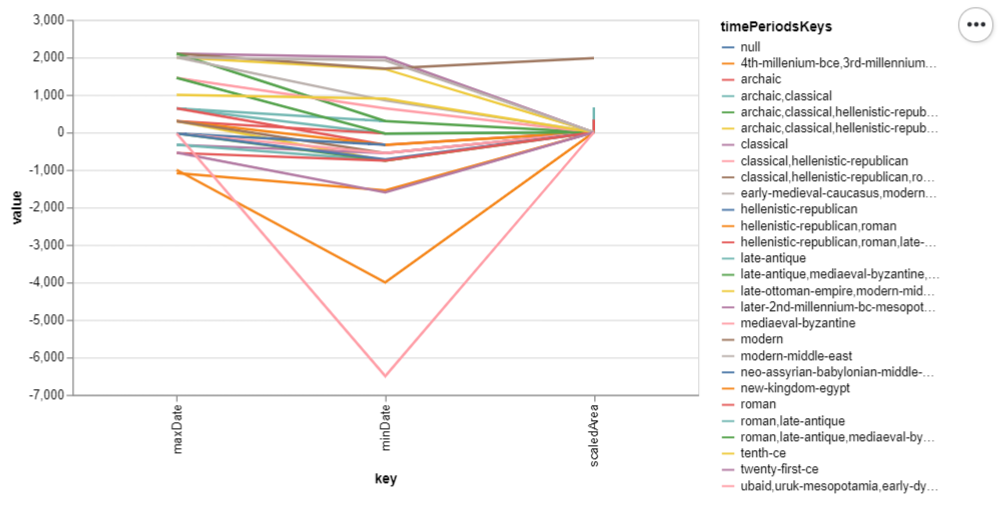
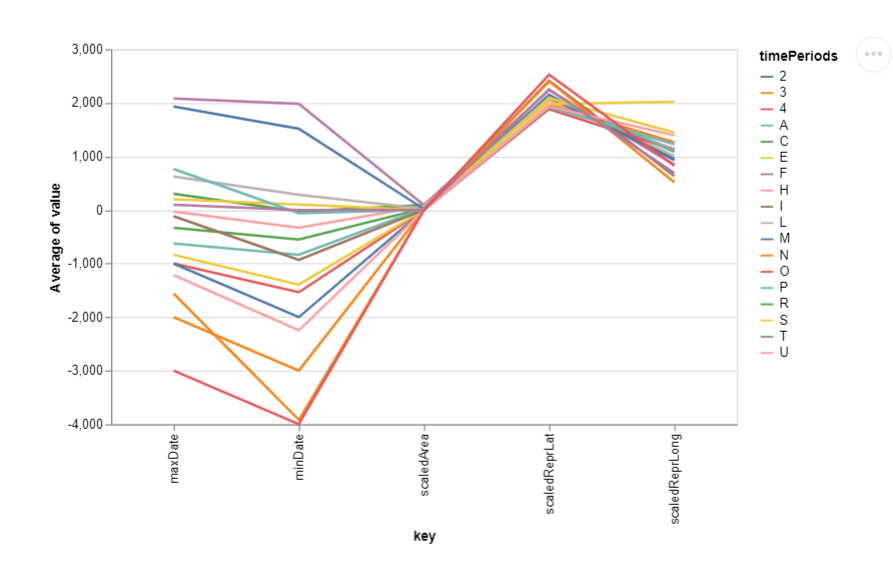
SienaMap finished and md files added

diff --git a/SienaMap.py b/SienaMap.py
@@ -8,26 +8,45 @@ import altair as alt
 import numpy as np
 from vega_datasets import data
 
+#loading data
 alt.renderers.enable('altair_viewer')
 alt.data_transformers.disable_max_rows()
 df = pd.read_csv("pleiades-places-latest.csv")
 
-#df.drop(df[df['id'] < 413293].index, inplace=True)
-#df.drop(df[df['id'] > 413310 ].index, inplace=True)
+#geomap
+countries = alt.topo_feature(data.world_110m.url, 'countries')
 
+#dropping samples outside of Tuscany
 df.drop(df[df['reprLat'] < 42].index, inplace=True)
 df.drop(df[df['reprLat'] > 44].index, inplace=True)
 
 df.drop(df[df['reprLong'] < 10].index, inplace=True)
 df.drop(df[df['reprLong'] > 12].index, inplace=True)
 
-print(df)
+#dropping samples that aren't clearly identified by one time period
+df = df[df['timePeriodsKeys'].str.split(",").str.len().lt(2)]
 
+#window height and width
+widthValue = 700
+heightValue = 700
+
+#chart specifications
 chart = alt.Chart(df).mark_circle().encode(
     longitude='reprLong',
     latitude='reprLat',
-    color='minDate',
-    tooltip='geoContext'
+    color='timePeriodsKeys',
+    tooltip='title'
 )
 
-chart.show()
+#geomap parameters
+scaleValue = 5300
+translation = [-700, 4300]
+
+#geomap specification
+mapData = alt.layer(
+    alt.Chart(countries).mark_geoshape(fill='black'),
+).project(
+    type='equirectangular', scale=scaleValue, translate=translation
+).properties(width=widthValue, height=heightValue).configure_view(stroke=None)
+
+(mapData + chart).show()

diff --git a/sliderMap.py b/sliderMap.py
@@ -5,11 +5,6 @@ from vega_datasets import data
 alt.renderers.enable('altair_viewer')
 alt.data_transformers.disable_max_rows()
 dataset = io.open_file("pleiades-locations-latest.csv")
-#names_data = io.open_file("pleiades-names-latest.csv")
-#places_data = io.open_file("pleiades-places-latest.csv")
-
-#location = 'C:\\Users\\pablo\\OneDrive\\Desktop\\uni\\CSC337\\Coursework1\\Europe_NothernAfrica_MiddleAsia_India.json'
-#mapData = alt.Data(url=location, format=alt.DataFormat(property='features',type='json'))
 
 countries = alt.topo_feature(data.world_110m.url, 'countries')
 
@@ -21,6 +16,7 @@ dataset.drop(
     dataset[dataset['reprLat'] < 0].index, inplace=True)
 
 
+#width and height of window
 widthValue = 700
 heightValue = 700
 
@@ -29,6 +25,7 @@ minDateSlider = alt.binding_range(min=-750, max=2000, step=10)
 minDateSel = alt.selection_single(name="minDate", fields=['minDate'],
                                    bind=minDateSlider, init={'minDate': -750})
 
+#chart specification
 chart = alt.Chart(dataset).mark_circle().encode(
     longitude='reprLong',
     latitude='reprLat',
@@ -43,9 +40,11 @@ chart = alt.Chart(dataset).mark_circle().encode(
     alt.datum.minDate < minDateSel.minDate
 )
 
+#geomap parameters
 scaleValue = 350
 translation = [100, 630]
 
+#geomap specification
 mapData = alt.layer(
     alt.Chart(countries).mark_geoshape(fill='black'),
 ).project(

diff --git a/areas.py b/areas.py
@@ -1,5 +1,5 @@
 #excel reference at: https://www.youtube.com/watch?v=QKM7q4fHYOU
-#IMPORTANT: make these the average, and add more dimensions
+
 import IOReader as io
 import pandas as pd
 import altair as alt
@@ -72,7 +72,7 @@ chart = alt.Chart(df).transform_window(
 ).mark_line().encode(
     x='key:N',
     y='average(value):Q',
-    color=alt.Color('timePeriods', legend=None)
+    color='timePeriods'
 ).properties(width=500)
 
 chart.show()

diff --git a/followup2.md b/followup2.md
@@ -1,0 +1,108 @@
+<div style="background-color: #cccccc;">
+    <h2 style="background-color: #909090;font-size: 1em;margin-bottom: 0;">What can we learn from the visualization?</h2>
+    <div>The aim of this visualization is to show the relationship between settlements of different time periods, in terms of their location, surface area, dates.We can see that most settlements have a similar surface area, and there is relatively little variation in terms of location. the periods in which each settlement lived changes dramatically.</div>
+</div>
+
+<div style="background-color: #cccccc;">
+    <h2 style="background-color: #909090;font-size: 1em;margin-bottom: 0;">What is the name for the type of visualization(s) used?</h2>
+    <div>Parallel Coordinates.</div>
+</div>
+
+<div style="background-color: #cccccc;">
+    <h2 style="background-color: #909090;font-size: 1em;margin-bottom: 0;">What are all visual mappings used?</h2>
+    <div>CHANGE THIS</div>
+</div>
+
+<div style="background-color: #cccccc;">
+    <h2 style="background-color: #909090;font-size: 1em;margin-bottom: 0;">Was there any special data preparation done?</h2>
+    <div>A new column was added, named timeRange, which is   the subtraction of maxDate and minDate. Any settlement that was older than 60000 years ago (which represents the beginning of human civilization) was dropped. Any settlement located above the equator was dropped. Furthermore, 4 more columns were added by separating the contents of the bbox column. This was done on Excel by following the tutorial at https://www.youtube.com/watch?v=QKM7q4fHYOU . These 4 columns were then used to calculate the surface area of each settlement. Settlements with a surface area of zero were then dropped. Moreover, the areas and coordinates of each settlement were rescaled so that the variation of those values would be more visible on the visualization. The amount of data on the screen was decreased to make the visualization cleaner and easier to read. This was done by removing all samples with a timePeriods value that had more than one character. This means we only retain settlements that are clearly identified by one time period. Finally, the y axis of the visualization is the average values of all settlements in the same time period.</div>
+</div>
+
+<div style="background-color: #cccccc;">
+    <h2 style="background-color: #909090;font-size: 1em;margin-bottom: 0;">What are the limitations of your design?</h2>
+    <div>The relationships between axis that are visible greatly depend on the order in which the axis are presented. If the user were able to change the order of the axis, more interesting patterns could appear. Furthermore, because the values for area and coordinates needed to be rescaled, it's hard to relate them to their original values. Finally, to make the visualization cleaner, a lot of data needed to be dropped, which may have revealed other patterns in the dataset.</div>
+</div>
+
+![alt text](Vis3Image1.png)
+
+```
+#excel reference at: https://www.youtube.com/watch?v=QKM7q4fHYOU
+
+import IOReader as io
+import pandas as pd
+import altair as alt
+from vega_datasets import data
+
+alt.renderers.enable('altair_viewer')
+alt.data_transformers.disable_max_rows()
+df = pd.read_csv("pleiades-locations-latest.csv")
+
+#the following values are approximations and they may vary
+#depending on the position on the planet.
+distanceBetweenLatitudes = 111000
+distanceBetweenLongitudes = 97000
+
+df['timeRange'] = df['maxDate'] - df['minDate']
+df.drop(
+    df[df['timeRange'] > 60000].index, inplace=True)
+
+df['area'] = (df['topRightX'] - df['bottomLeftX']) * (df['topRightY'] - df['bottomLeftY'])
+
+#rescaling area
+maxArea = df['area'].max()
+minArea = df['area'].min()
+
+originalRange = maxArea - minArea
+
+scaledMax = 3000
+scaledMin = 0
+
+scaledRange = scaledMax - scaledMin
+
+df['scaledArea'] = (((df['area'] - minArea) * scaledRange) / originalRange) + scaledMin
+
+#rescaling reprLat
+maxReprLat = df['reprLat'].max()
+minReprLat = df['reprLat'].min()
+
+originalRange = maxReprLat - minReprLat
+
+scaledMax = 3000
+scaledMin = 0
+
+scaledRange = scaledMax - scaledMin
+
+df['scaledReprLat'] = (((df['reprLat'] - minReprLat) * scaledRange) / originalRange) + scaledMin
+
+#rescaling reprLong
+
+maxReprLong = df['reprLong'].max()
+minReprLong = df['reprLong'].min()
+
+originalRange = maxReprLong - minReprLong
+
+scaledMax = 3000
+scaledMin = 0
+
+scaledRange = scaledMax - scaledMin
+
+df['scaledReprLong'] = (((df['reprLong'] - minReprLong) * scaledRange) / originalRange) + scaledMin
+
+#dropping unnecessary data
+
+df.drop(df[df['scaledArea'] == 0].index, inplace=True)
+df = df[df['timePeriodsKeys'].str.split(",").str.len().lt(2)]
+
+#chart specification
+chart = alt.Chart(df).transform_window(
+    index='count()'
+).transform_fold(
+    ['scaledArea', 'maxDate', 'minDate', 'scaledReprLat', 'scaledReprLong']
+).mark_line().encode(
+    x='key:N',
+    y='average(value):Q',
+    color='timePeriods'
+).properties(width=500)
+
+chart.show()
+```

diff --git a/followup1.md b/followup1.md
@@ -1,0 +1,85 @@
+<div style="background-color: #cccccc;">
+    <h2 style="background-color: #909090;font-size: 1em;margin-bottom: 0;">What can we learn from the visualization?</h2>
+    <div>The aim of this visualization is to see the development of settlements over time. We can see that the number and variety of settlements increases over time. This shows the progress of human civilization over time.</div>
+</div>
+
+<div style="background-color: #cccccc;">
+    <h2 style="background-color: #909090;font-size: 1em;margin-bottom: 0;">What is the name for the type of visualization(s) used?</h2>
+    <div>Geomap with samples located with latitude and longitude.</div>
+</div>
+
+<div style="background-color: #cccccc;">
+    <h2 style="background-color: #909090;font-size: 1em;margin-bottom: 0;">What are all visual mappings used?</h2>
+    <div>CHANGE THIS</div>
+</div>
+
+<div style="background-color: #cccccc;">
+    <h2 style="background-color: #909090;font-size: 1em;margin-bottom: 0;">Was there any special data preparation done?</h2>
+    <div>A new column was added, named timeRange, which is   the subtraction of maxDate and minDate. Any settlement located above the equator was dropped. Finally, any settlement that was older than 60000 years ago (which represents the beginning of human civilization) was also dropped.</div>
+</div>
+
+<div style="background-color: #cccccc;">
+    <h2 style="background-color: #909090;font-size: 1em;margin-bottom: 0;">What are the limitations of your design?</h2>
+    <div>The data that is linked to the slider is not continuous, so there are steps in which nothing changes, and steps where the information on the screen changes dramatically. Furthermore, the density of samples allows samples to cover each other, decreasing the amount of information that can be shown effectively.</div>
+</div>
+
+![alt text](Vis2Image1.png)
+![alt text](Vis2Image2.png)
+![alt text](Vis2Image3.png)
+
+```
+import IOReader as io
+import altair as alt
+from vega_datasets import data
+
+alt.renderers.enable('altair_viewer')
+alt.data_transformers.disable_max_rows()
+dataset = io.open_file("pleiades-locations-latest.csv")
+
+countries = alt.topo_feature(data.world_110m.url, 'countries')
+
+#preprocessing
+dataset['timeRange'] = dataset['maxDate'] - dataset['minDate']
+dataset.drop(
+    dataset[dataset['timeRange'] > 60000].index, inplace=True)
+dataset.drop(
+    dataset[dataset['reprLat'] < 0].index, inplace=True)
+
+
+#width and height of window
+widthValue = 700
+heightValue = 700
+
+#slider
+minDateSlider = alt.binding_range(min=-750, max=2000, step=10)
+minDateSel = alt.selection_single(name="minDate", fields=['minDate'],
+                                   bind=minDateSlider, init={'minDate': -750})
+
+#chart specification
+chart = alt.Chart(dataset).mark_circle().encode(
+    longitude='reprLong',
+    latitude='reprLat',
+    color=alt.Color('timePeriodsKeys:N', legend=None),
+    tooltip = 'timePeriodsKeys'
+).properties(
+    width=widthValue,
+    height=heightValue,
+).add_selection(
+    minDateSel
+).transform_filter(
+    alt.datum.minDate < minDateSel.minDate
+)
+
+#geomap parameters
+scaleValue = 350
+translation = [100, 630]
+
+#geomap specification
+mapData = alt.layer(
+    alt.Chart(countries).mark_geoshape(fill='black'),
+).project(
+    type='equirectangular', scale=scaleValue, translate=translation
+).properties(width=widthValue, height=heightValue).configure_view(stroke=None)
+
+(mapData + chart).show()
+```

diff --git a/followup3.md b/followup3.md
@@ -1,0 +1,82 @@
+<div style="background-color: #cccccc;">
+    <h2 style="background-color: #909090;font-size: 1em;margin-bottom: 0;">What can we learn from the visualization?</h2>
+    <div>The aim of this visualization is to see patterns of settlements from different time periods in Tuscany, Italy. We can see that roman settlements have had a lot of influence in the region. Moreover, modern settlements are mostly located in the eastern part of Tuscany. Finally, we can see that the dataset does not identify Etrurian settlements as Etrurian. Places like "Belvedere Tomb" and "Tomba della Montagnola" are identified under the umbrella term of "archaic" instead.</div>
+</div>
+
+<div style="background-color: #cccccc;">
+    <h2 style="background-color: #909090;font-size: 1em;margin-bottom: 0;">What is the name for the type of visualization(s) used?</h2>
+    <div>Geomap with samples located with latitude and longitude.</div>
+</div>
+
+<div style="background-color: #cccccc;">
+    <h2 style="background-color: #909090;font-size: 1em;margin-bottom: 0;">What are all visual mappings used?</h2>
+    <div>CHANGE THIS</div>
+</div>
+
+<div style="background-color: #cccccc;">
+    <h2 style="background-color: #909090;font-size: 1em;margin-bottom: 0;">Was there any special data preparation done?</h2>
+    <div>all settlements that weren't near the region of Tuscany were dropped. Furthermore, settlements that aren't clearly identified by one time period were dropped.</div>
+</div>
+
+<div style="background-color: #cccccc;">
+    <h2 style="background-color: #909090;font-size: 1em;margin-bottom: 0;">What are the limitations of your design?</h2>
+    <div>Not all samples in the visualization are in Tuscany, as it was not possible to only select settlements in that region. For example, "Galeata" (which is visible in the visualization) is not in Tuscany, but it is in the neighbouring region of Emilia Romagna.</div>
+</div>
+
+![alt text](Vis4Image1.png)
+
+```
+#Siena UID = 62adf57abfdf2645abe652f7caa19880
+#Siena ID = 413293
+#Siena connectsWith = 702,604,147,136,661,000
+#Siena coordinates (lat, long) = 43.318695,11.330502
+
+import pandas as pd
+import altair as alt
+import numpy as np
+from vega_datasets import data
+
+#loading data
+alt.renderers.enable('altair_viewer')
+alt.data_transformers.disable_max_rows()
+df = pd.read_csv("pleiades-places-latest.csv")
+
+#geomap
+countries = alt.topo_feature(data.world_110m.url, 'countries')
+
+#dropping samples outside of Tuscany
+df.drop(df[df['reprLat'] < 42].index, inplace=True)
+df.drop(df[df['reprLat'] > 44].index, inplace=True)
+
+df.drop(df[df['reprLong'] < 10].index, inplace=True)
+df.drop(df[df['reprLong'] > 12].index, inplace=True)
+
+#dropping samples that aren't clearly identified by one time period
+df = df[df['timePeriodsKeys'].str.split(",").str.len().lt(2)]
+
+#window height and width
+widthValue = 700
+heightValue = 700
+
+#chart specifications
+chart = alt.Chart(df).mark_circle().encode(
+    longitude='reprLong',
+    latitude='reprLat',
+    color='timePeriodsKeys',
+    tooltip='title'
+)
+
+#geomap parameters
+scaleValue = 5300
+translation = [-700, 4300]
+
+#geomap specification
+mapData = alt.layer(
+    alt.Chart(countries).mark_geoshape(fill='black'),
+).project(
+    type='equirectangular', scale=scaleValue, translate=translation
+).properties(width=widthValue, height=heightValue).configure_view(stroke=None)
+
+(mapData + chart).show()
+
+```

diff --git a/coursework.md b/coursework.md
@@ -11,7 +11,7 @@
 
 <div style="background-color: #cccccc;">
     <h2 style="background-color: #909090;font-size: 1em;margin-bottom: 0;">What are all visual mappings used?</h2>
-    <div>Longitude, Latitude, Colour.</div>
+    <div>CHANGE THIS</div>
 </div>
 
 <div style="background-color: #cccccc;">
